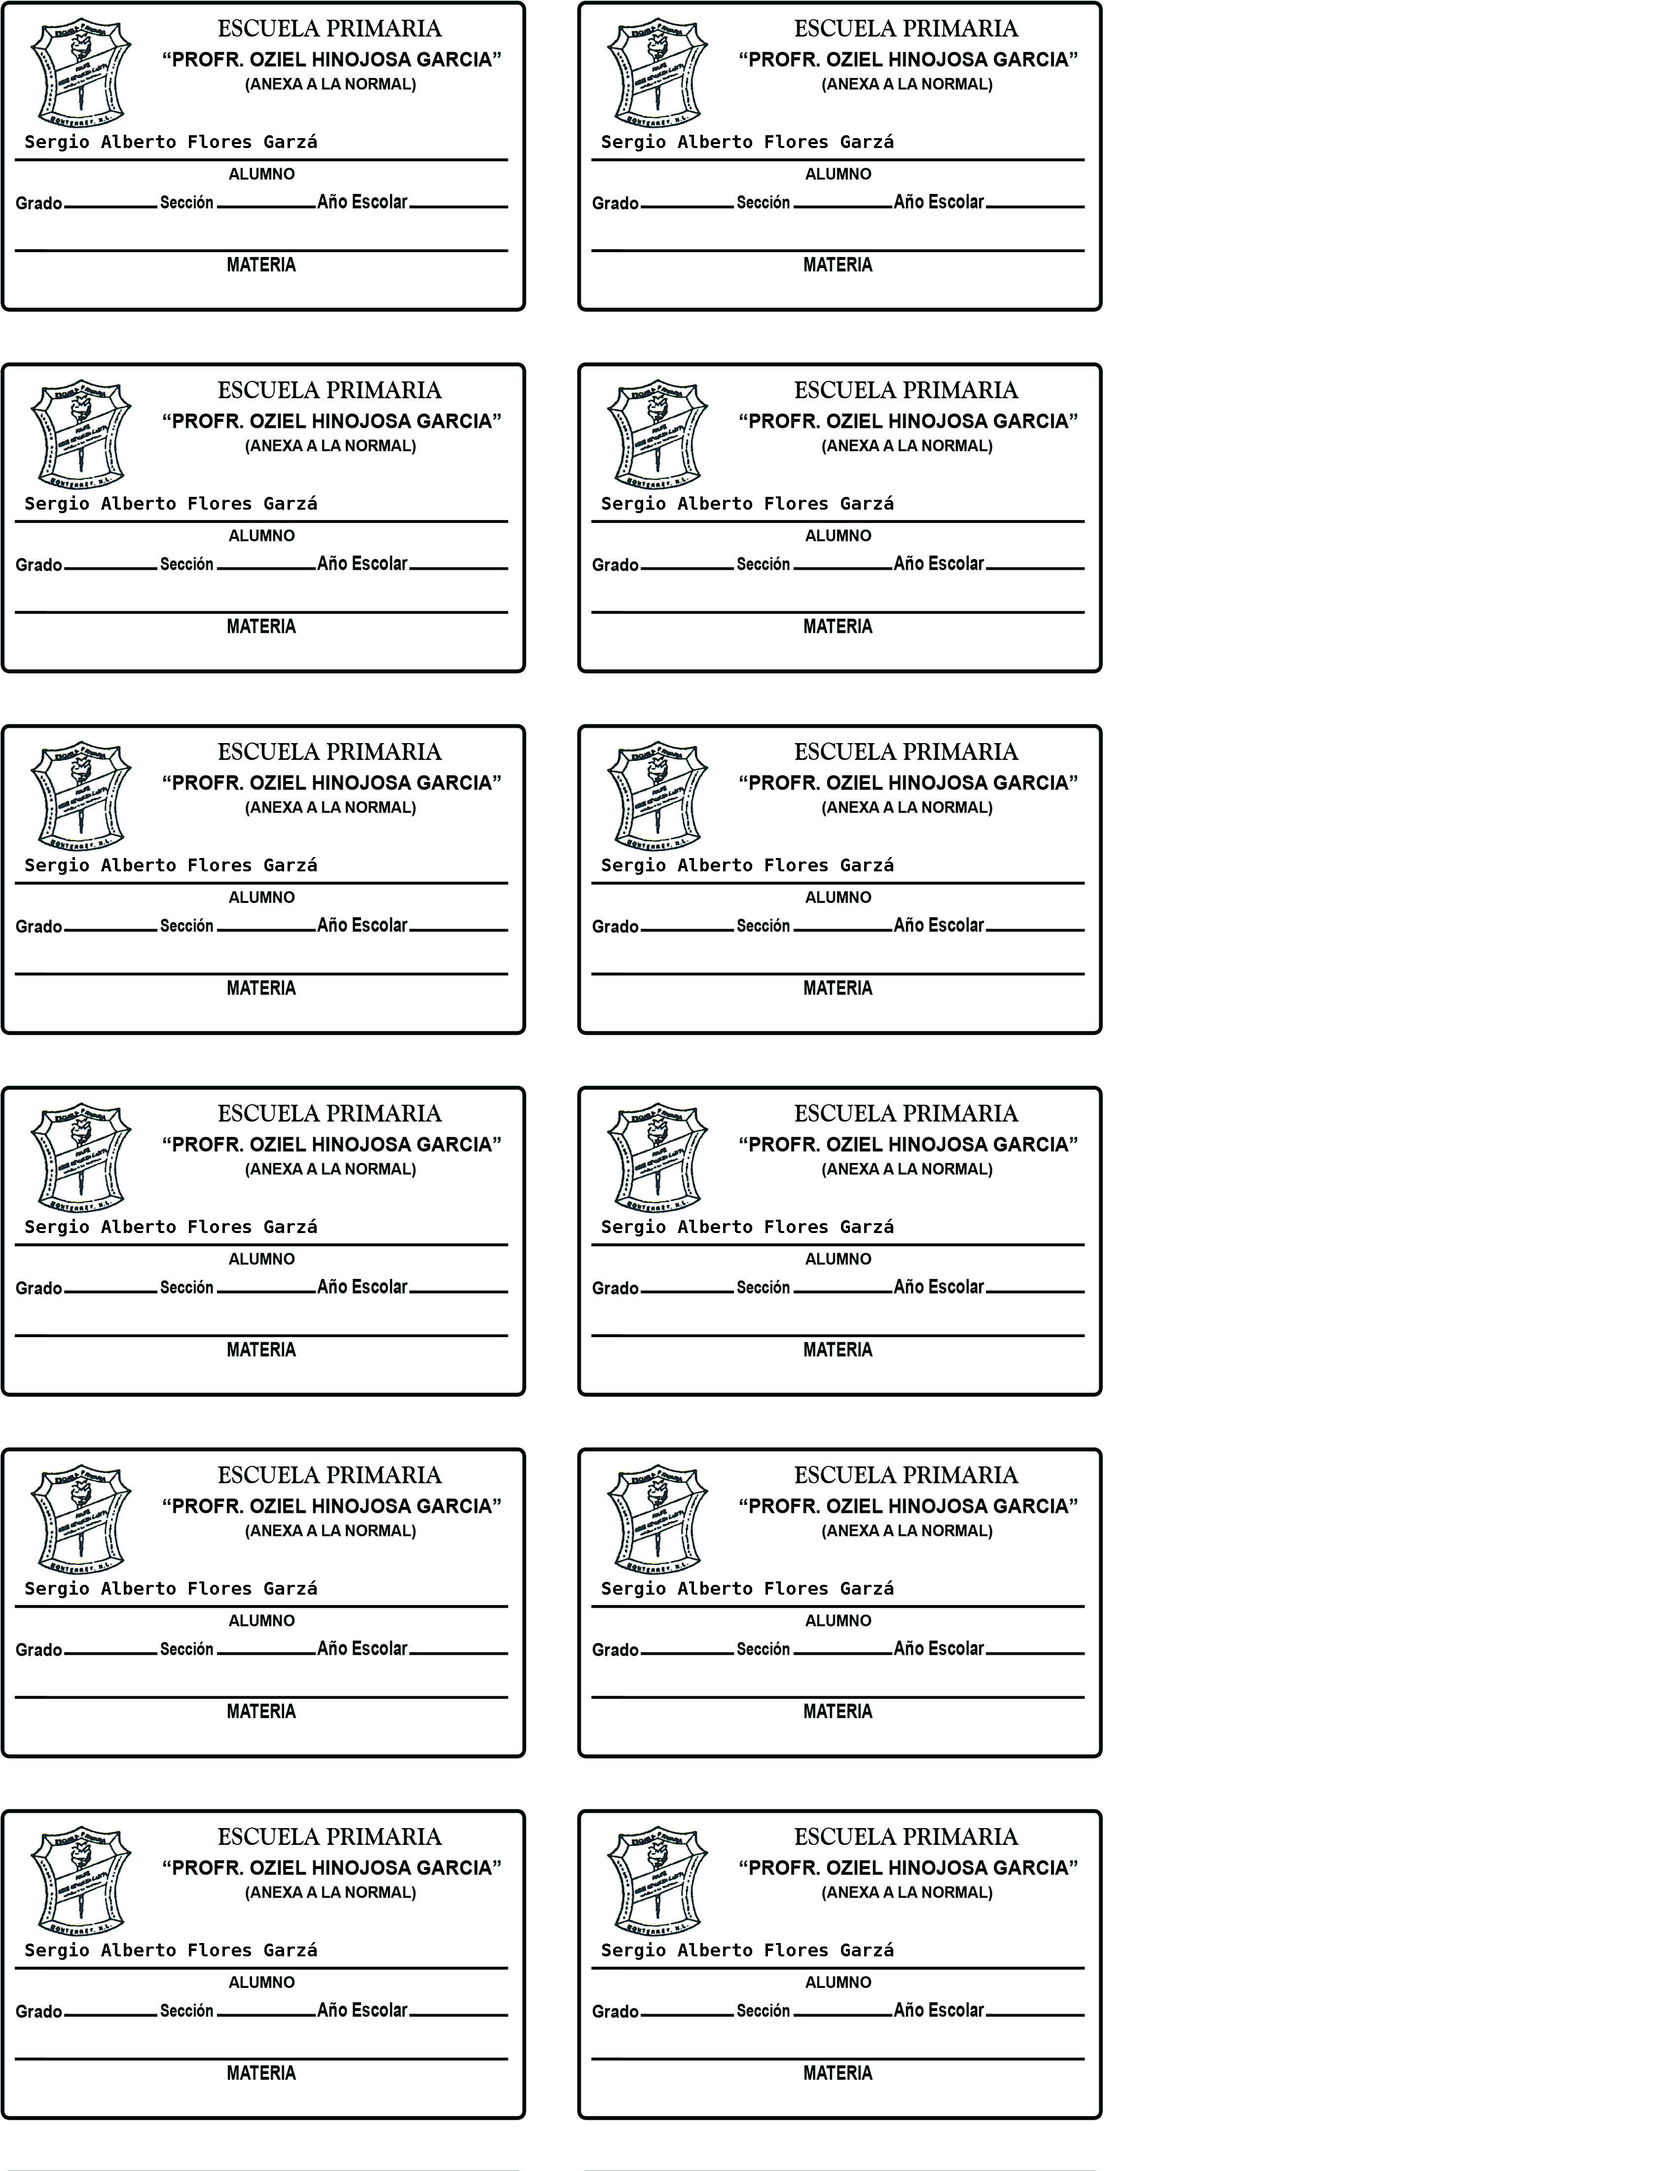
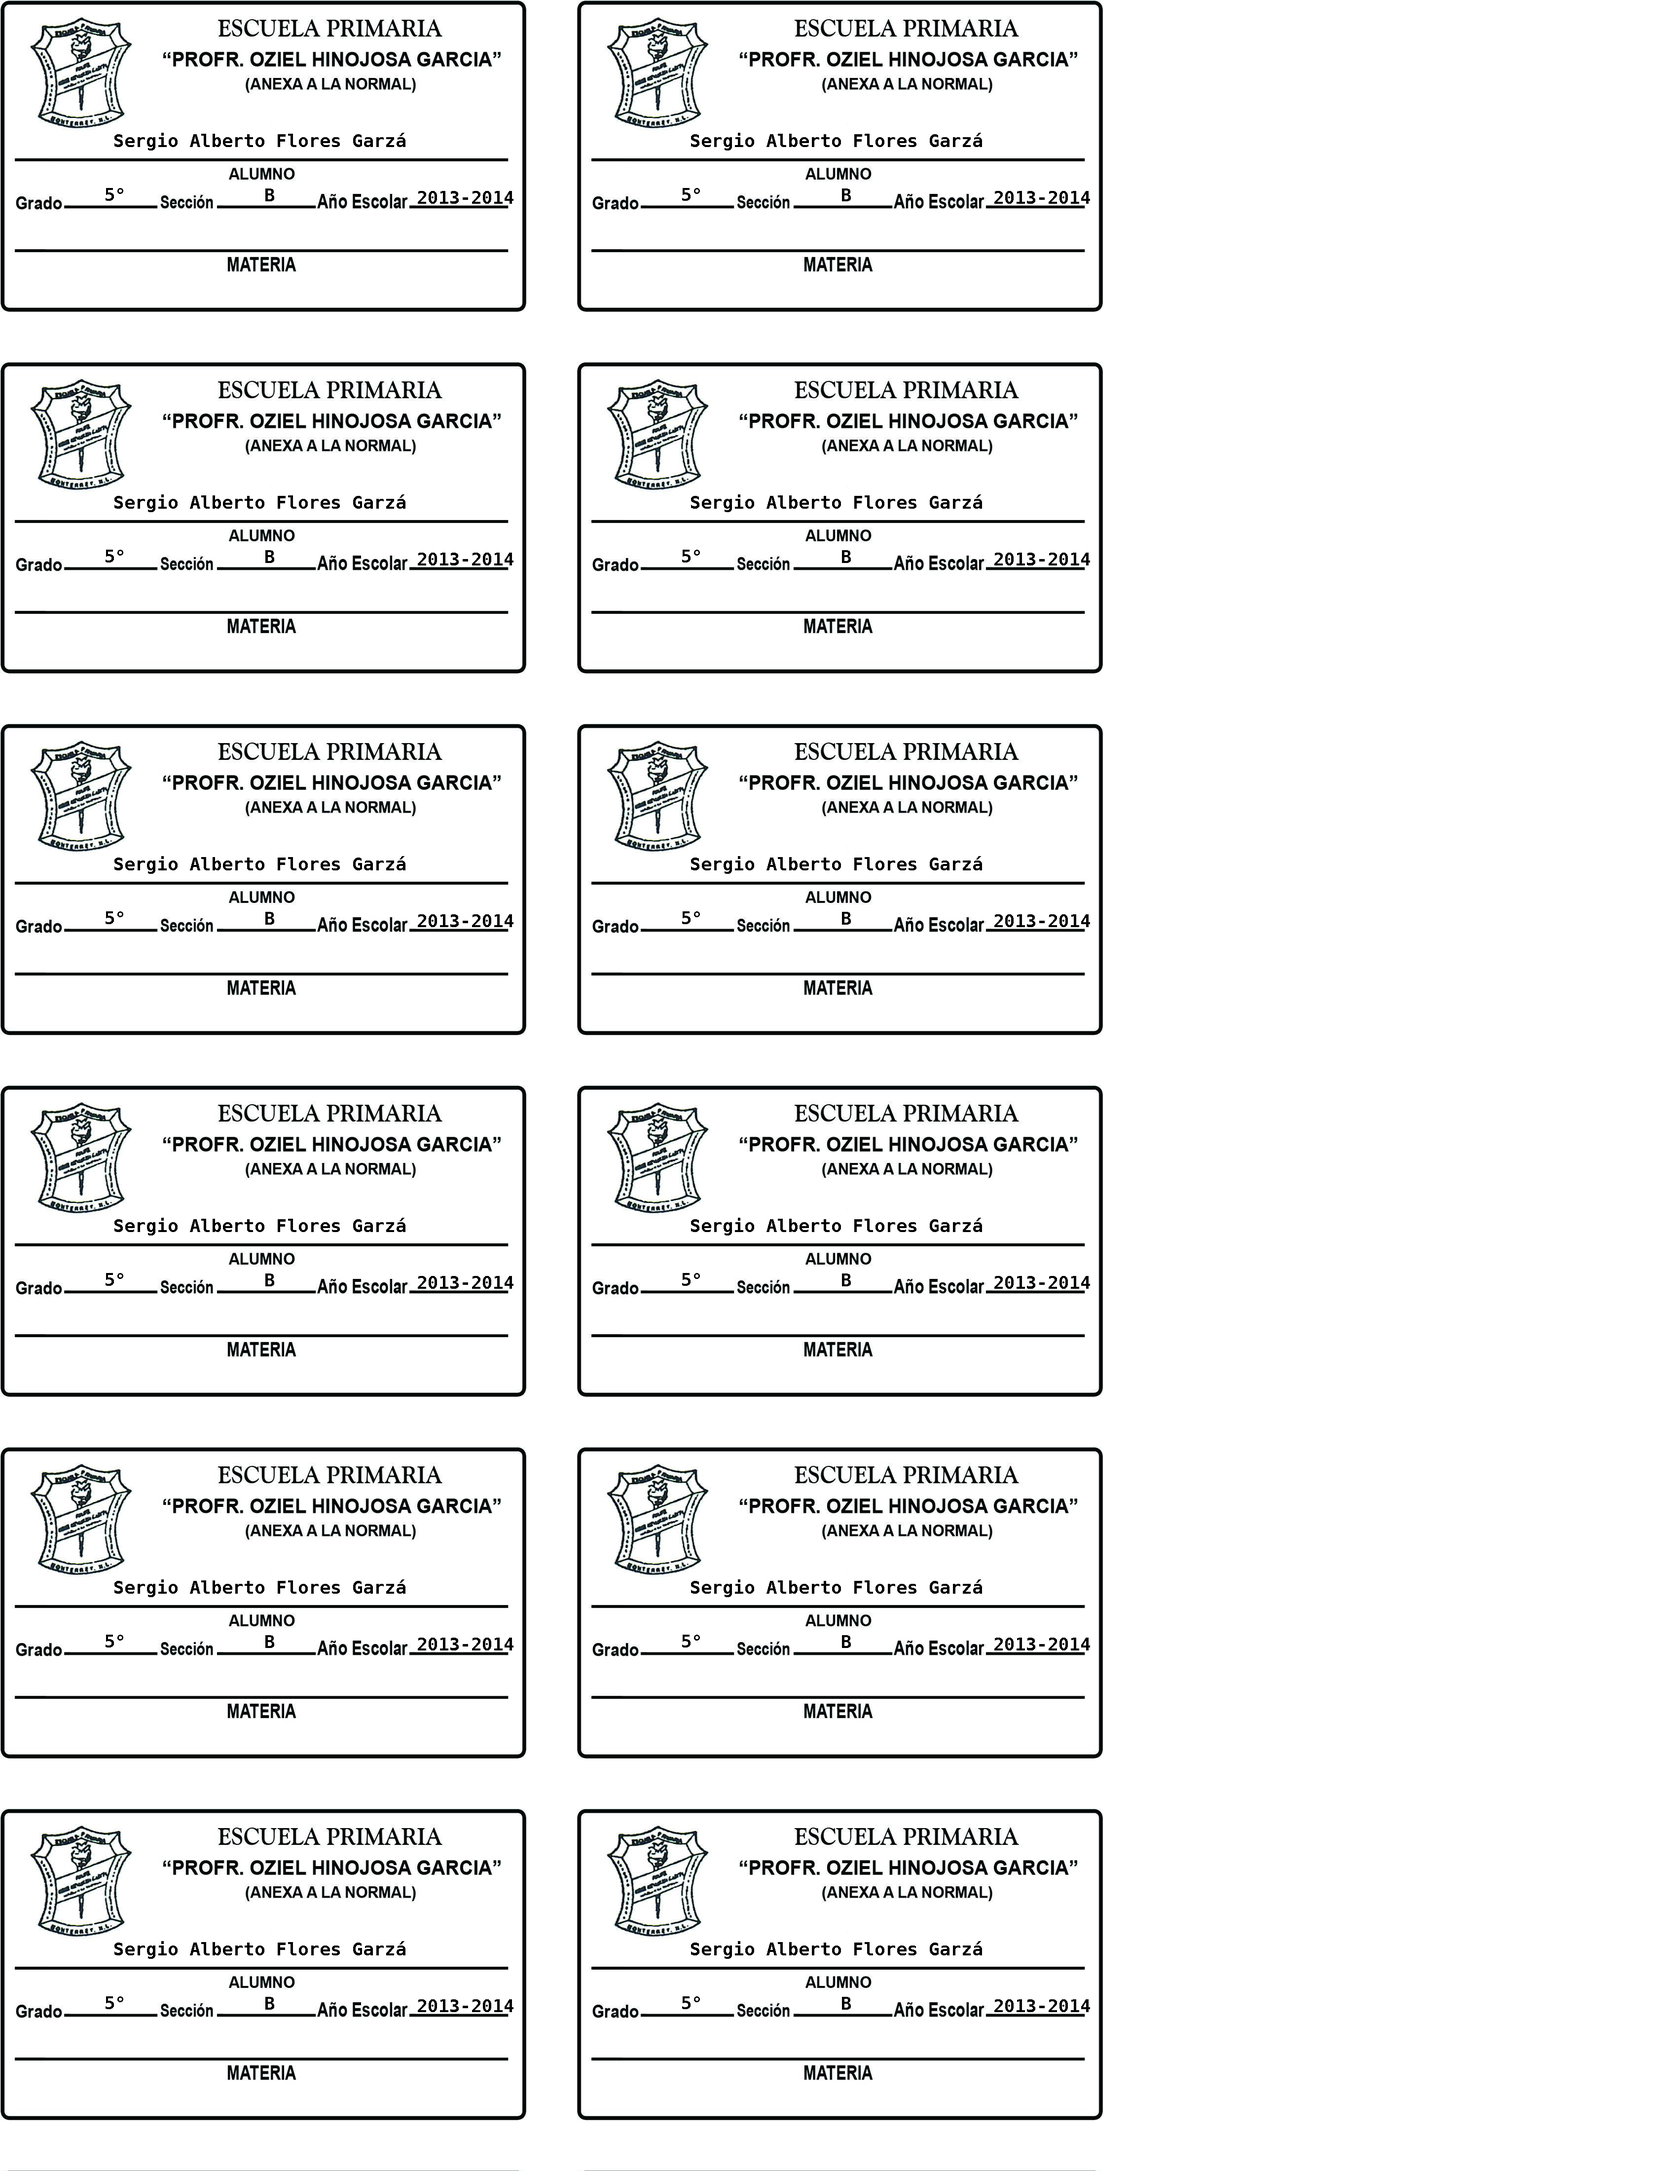
Corrected the coordinates of the components in the label

diff --git a/src/com/multiplik/editor/ImageEditor.java b/src/com/multiplik/editor/ImageEditor.java
@@ -32,23 +32,23 @@ public class ImageEditor {
 	
 	public void setName (String name)
 	{
-		gLabel.drawString(name, 50, 300);
+		gLabel.drawString(name, 230, 298);
 	}
 	
 	public void setGrade(String grade)
 	{
-		gLabel.drawString(grade, 20, 20);
+		gLabel.drawString(grade, 211, 407);
 		
 	}
 	
-	public void setSchool(String school)
+	public void setSection(String section)
 	{
-		gLabel.drawString(school, 20, 20);
+		gLabel.drawString(section, 536, 408);
 	}
 	
 	public void setYear(String year)
 	{
-		gLabel.drawString(year, 20, 20);
+		gLabel.drawString(year, 845, 413);
 	}
 	
 	public void setSubjects(List<String> subjecList)

diff --git a/src/com/multiplik/editor/Main.java b/src/com/multiplik/editor/Main.java
@@ -15,6 +15,9 @@ public class Main {
 		BufferedImage img = ImageIO.read(new File("./etiquet.png"));
 		ImageEditor imgEditor = new ImageEditor((BufferedImage) img,6);
 		imgEditor.setName("Sergio Alberto Flores Garzá");
+		imgEditor.setGrade("5°");
+		imgEditor.setSection("B");
+		imgEditor.setYear("2013-2014");
 		ImageIO.write((RenderedImage) imgEditor.getLabelSheet(), "png", new File("./anexa2.png"));
 		
 	}
